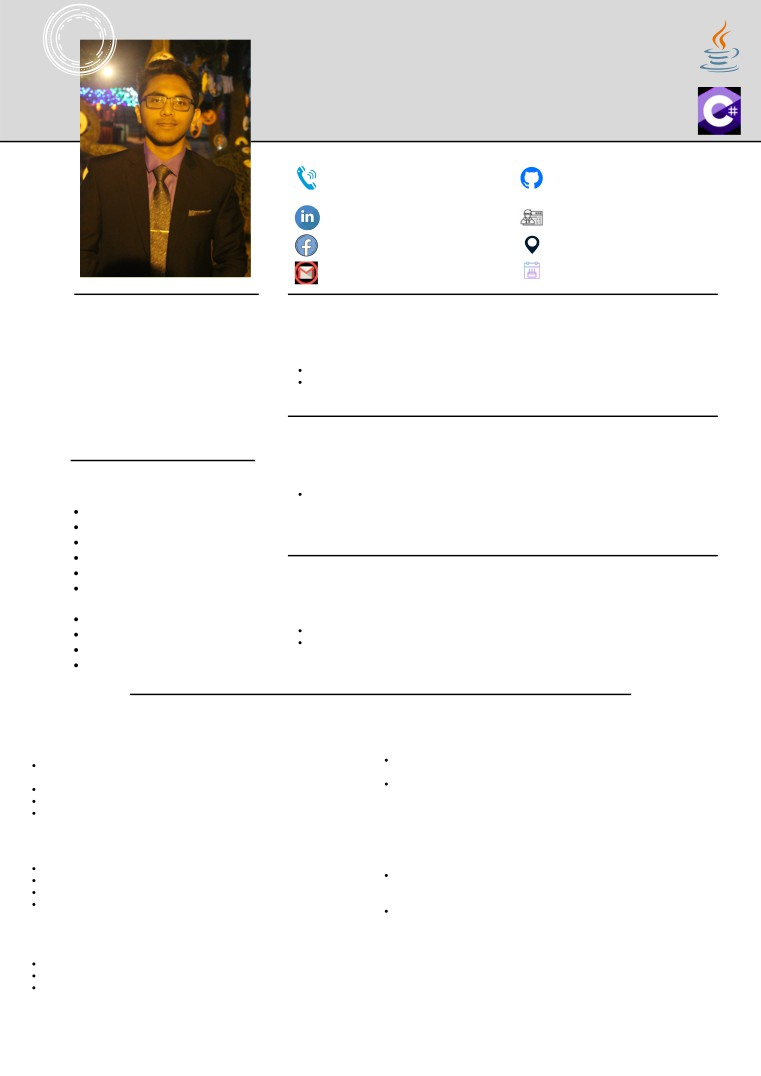
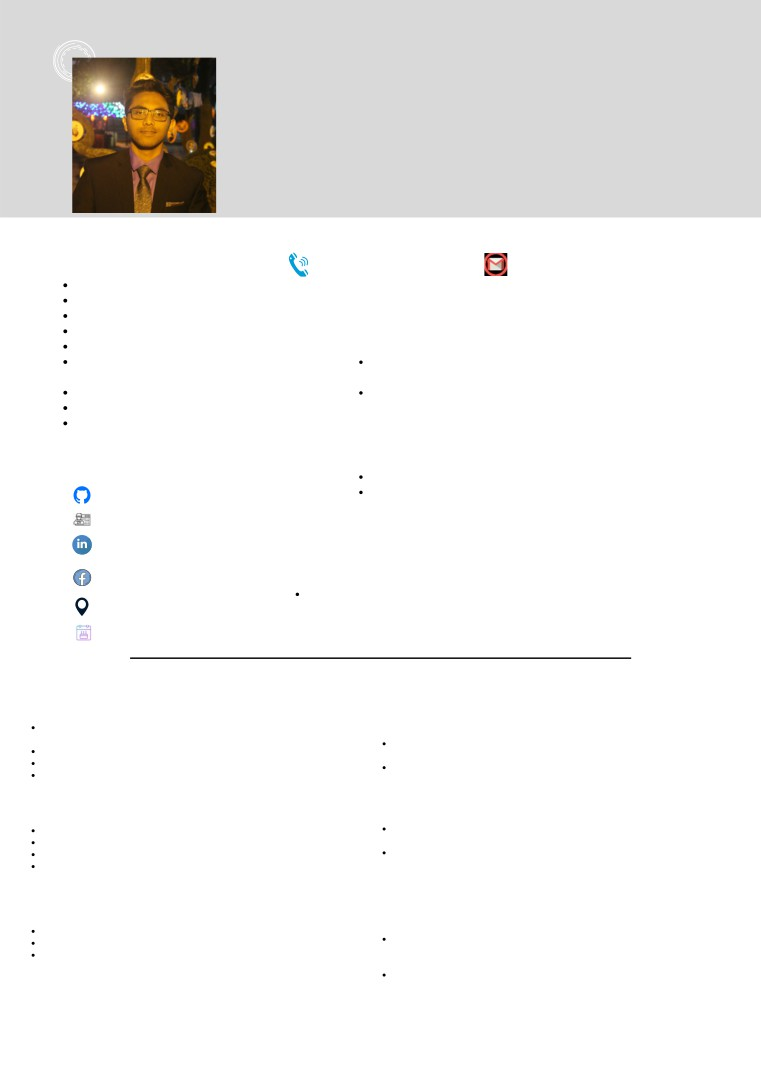
work experience adding

Changed region(s): [[0.0, 0.0, 1.0, 0.276], [0.0907, 0.4294, 0.1209, 0.6134]]

diff --git a/resume/index.html b/resume/index.html
@@ -6,151 +6,156 @@ span.cls_004{font-family:Arial,serif;font-size:11.1px;color:rgb(0,0,0);font-weig
 div.cls_004{font-family:Arial,serif;font-size:11.1px;color:rgb(0,0,0);font-weight:normal;font-style:normal;text-decoration: none}
 span.cls_005{font-family:Arial,serif;font-size:8.1px;color:rgb(0,0,0);font-weight:normal;font-style:normal;text-decoration: none}
 div.cls_005{font-family:Arial,serif;font-size:8.1px;color:rgb(0,0,0);font-weight:normal;font-style:normal;text-decoration: none}
-span.cls_003{font-family:Arial,serif;font-size:28.3px;color:rgb(31,32,42);font-weight:bold;font-style:normal;text-decoration: none}
-div.cls_003{font-family:Arial,serif;font-size:28.3px;color:rgb(31,32,42);font-weight:bold;font-style:normal;text-decoration: none}
-span.cls_002{font-family:Arial,serif;font-size:10.1px;color:rgb(93,23,235);font-weight:bold;font-style:normal;text-decoration: none}
-div.cls_002{font-family:Arial,serif;font-size:10.1px;color:rgb(93,23,235);font-weight:bold;font-style:normal;text-decoration: none}
+span.cls_003{font-family:Arial,serif;font-size:28.3px;color:rgb(0,0,0);font-weight:bold;font-style:normal;text-decoration: none}
+div.cls_003{font-family:Arial,serif;font-size:28.3px;color:rgb(0,0,0);font-weight:bold;font-style:normal;text-decoration: none}
+span.cls_002{font-family:Arial,serif;font-size:10.1px;color:rgb(0,0,0);font-weight:bold;font-style:normal;text-decoration: none}
+div.cls_002{font-family:Arial,serif;font-size:10.1px;color:rgb(0,0,0);font-weight:bold;font-style:normal;text-decoration: none}
+span.cls_006{font-family:Arial,serif;font-size:9.3px;color:rgb(0,0,0);font-weight:normal;font-style:normal;text-decoration: none}
+div.cls_006{font-family:Arial,serif;font-size:9.3px;color:rgb(0,0,0);font-weight:normal;font-style:normal;text-decoration: none}
+span.cls_007{font-family:Arial,serif;font-size:9.3px;color:rgb(0,157,217);font-weight:normal;font-style:normal;text-decoration: none}
+div.cls_007{font-family:Arial,serif;font-size:9.3px;color:rgb(0,157,217);font-weight:normal;font-style:normal;text-decoration: none}
 span.cls_024{font-family:Arial,serif;font-size:7.1px;color:rgb(0,0,0);font-weight:normal;font-style:normal;text-decoration: underline}
 div.cls_024{font-family:Arial,serif;font-size:7.1px;color:rgb(0,0,0);font-weight:normal;font-style:normal;text-decoration: none}
+span.cls_008{font-family:Arial,serif;font-size:9.1px;color:rgb(0,0,0);font-weight:normal;font-style:normal;text-decoration: none}
+div.cls_008{font-family:Arial,serif;font-size:9.1px;color:rgb(0,0,0);font-weight:normal;font-style:normal;text-decoration: none}
+span.cls_009{font-family:Arial,serif;font-size:9.1px;color:rgb(0,157,217);font-weight:normal;font-style:normal;text-decoration: none}
+div.cls_009{font-family:Arial,serif;font-size:9.1px;color:rgb(0,157,217);font-weight:normal;font-style:normal;text-decoration: none}
+span.cls_018{font-family:Arial,serif;font-size:8.1px;color:rgb(0,0,0);font-weight:bold;font-style:normal;text-decoration: none}
+div.cls_018{font-family:Arial,serif;font-size:8.1px;color:rgb(0,0,0);font-weight:bold;font-style:normal;text-decoration: none}
+span.cls_019{font-family:Arial,serif;font-size:8.1px;color:rgb(0,0,0);font-weight:normal;font-style:normal;text-decoration: none}
+div.cls_019{font-family:Arial,serif;font-size:8.1px;color:rgb(0,0,0);font-weight:normal;font-style:normal;text-decoration: none}
+span.cls_014{font-family:Arial,serif;font-size:8.1px;color:rgb(0,157,217);font-weight:normal;font-style:normal;text-decoration: none}
+div.cls_014{font-family:Arial,serif;font-size:8.1px;color:rgb(0,157,217);font-weight:normal;font-style:normal;text-decoration: none}
+span.cls_027{font-family:Arial,serif;font-size:7.1px;color:rgb(0,0,0);font-weight:normal;font-style:normal;text-decoration: underline}
+div.cls_027{font-family:Arial,serif;font-size:7.1px;color:rgb(0,0,0);font-weight:normal;font-style:normal;text-decoration: none}
 span.cls_026{font-family:Arial,serif;font-size:6.1px;color:rgb(0,0,0);font-weight:normal;font-style:normal;text-decoration: underline}
 div.cls_026{font-family:Arial,serif;font-size:6.1px;color:rgb(0,0,0);font-weight:normal;font-style:normal;text-decoration: none}
-span.cls_007{font-family:Arial,serif;font-size:6.1px;color:rgb(0,0,0);font-weight:normal;font-style:normal;text-decoration: none}
-div.cls_007{font-family:Arial,serif;font-size:6.1px;color:rgb(0,0,0);font-weight:normal;font-style:normal;text-decoration: none}
-span.cls_009{font-family:Arial,serif;font-size:9.1px;color:rgb(0,0,0);font-weight:normal;font-style:normal;text-decoration: none}
-div.cls_009{font-family:Arial,serif;font-size:9.1px;color:rgb(0,0,0);font-weight:normal;font-style:normal;text-decoration: none}
-span.cls_010{font-family:Arial,serif;font-size:10.1px;color:rgb(0,0,0);font-weight:bold;font-style:normal;text-decoration: none}
-div.cls_010{font-family:Arial,serif;font-size:10.1px;color:rgb(0,0,0);font-weight:bold;font-style:normal;text-decoration: none}
-span.cls_011{font-family:Arial,serif;font-size:9.1px;color:rgb(0,0,0);font-weight:bold;font-style:normal;text-decoration: none}
-div.cls_011{font-family:Arial,serif;font-size:9.1px;color:rgb(0,0,0);font-weight:bold;font-style:normal;text-decoration: none}
-span.cls_021{font-family:Arial,serif;font-size:6.1px;color:rgb(137,18,255);font-weight:bold;font-style:normal;text-decoration: none}
-div.cls_021{font-family:Arial,serif;font-size:6.1px;color:rgb(137,18,255);font-weight:bold;font-style:normal;text-decoration: none}
-span.cls_008{font-family:Arial,serif;font-size:7.1px;color:rgb(0,0,0);font-weight:normal;font-style:normal;text-decoration: none}
-div.cls_008{font-family:Arial,serif;font-size:7.1px;color:rgb(0,0,0);font-weight:normal;font-style:normal;text-decoration: none}
-span.cls_012{font-family:Arial,serif;font-size:9.1px;color:rgb(55,181,255);font-weight:normal;font-style:normal;text-decoration: none}
-div.cls_012{font-family:Arial,serif;font-size:9.1px;color:rgb(55,181,255);font-weight:normal;font-style:normal;text-decoration: none}
-span.cls_013{font-family:Arial,serif;font-size:8.1px;color:rgb(33,80,177);font-weight:bold;font-style:normal;text-decoration: none}
-div.cls_013{font-family:Arial,serif;font-size:8.1px;color:rgb(33,80,177);font-weight:bold;font-style:normal;text-decoration: none}
-span.cls_014{font-family:Arial,serif;font-size:9.1px;color:rgb(0,0,0);font-weight:normal;font-style:normal;text-decoration: none}
-div.cls_014{font-family:Arial,serif;font-size:9.1px;color:rgb(0,0,0);font-weight:normal;font-style:normal;text-decoration: none}
-span.cls_016{font-family:Arial,serif;font-size:7.1px;color:rgb(137,18,255);font-weight:normal;font-style:normal;text-decoration: none}
-div.cls_016{font-family:Arial,serif;font-size:7.1px;color:rgb(137,18,255);font-weight:normal;font-style:normal;text-decoration: none}
-span.cls_015{font-family:Arial,serif;font-size:9.1px;color:rgb(55,181,255);font-weight:normal;font-style:normal;text-decoration: none}
-div.cls_015{font-family:Arial,serif;font-size:9.1px;color:rgb(55,181,255);font-weight:normal;font-style:normal;text-decoration: none}
-span.cls_017{font-family:Arial,serif;font-size:7.1px;color:rgb(55,181,255);font-weight:normal;font-style:normal;text-decoration: none}
-div.cls_017{font-family:Arial,serif;font-size:7.1px;color:rgb(55,181,255);font-weight:normal;font-style:normal;text-decoration: none}
-span.cls_018{font-family:Arial,serif;font-size:11.1px;color:rgb(93,23,235);font-weight:bold;font-style:normal;text-decoration: none}
-div.cls_018{font-family:Arial,serif;font-size:11.1px;color:rgb(93,23,235);font-weight:bold;font-style:normal;text-decoration: none}
-span.cls_019{font-family:Arial,serif;font-size:7.1px;color:rgb(0,0,0);font-weight:normal;font-style:normal;text-decoration: none}
-div.cls_019{font-family:Arial,serif;font-size:7.1px;color:rgb(0,0,0);font-weight:normal;font-style:normal;text-decoration: none}
-span.cls_020{font-family:Arial,serif;font-size:7.1px;color:rgb(55,181,255);font-weight:normal;font-style:normal;text-decoration: none}
-div.cls_020{font-family:Arial,serif;font-size:7.1px;color:rgb(55,181,255);font-weight:normal;font-style:normal;text-decoration: none}
+span.cls_012{font-family:Arial,serif;font-size:8.1px;color:rgb(0,0,0);font-weight:bold;font-style:normal;text-decoration: none}
+div.cls_012{font-family:Arial,serif;font-size:8.1px;color:rgb(0,0,0);font-weight:bold;font-style:normal;text-decoration: none}
+span.cls_013{font-family:Arial,serif;font-size:6.1px;color:rgb(0,0,0);font-weight:normal;font-style:normal;text-decoration: none}
+div.cls_013{font-family:Arial,serif;font-size:6.1px;color:rgb(0,0,0);font-weight:normal;font-style:normal;text-decoration: none}
+span.cls_015{font-family:Arial,serif;font-size:11.1px;color:rgb(0,0,0);font-weight:bold;font-style:normal;text-decoration: none}
+div.cls_015{font-family:Arial,serif;font-size:11.1px;color:rgb(0,0,0);font-weight:bold;font-style:normal;text-decoration: none}
+span.cls_016{font-family:Arial,serif;font-size:7.1px;color:rgb(0,0,0);font-weight:normal;font-style:normal;text-decoration: none}
+div.cls_016{font-family:Arial,serif;font-size:7.1px;color:rgb(0,0,0);font-weight:normal;font-style:normal;text-decoration: none}
+span.cls_017{font-family:Arial,serif;font-size:7.1px;color:rgb(0,157,217);font-weight:normal;font-style:normal;text-decoration: none}
+div.cls_017{font-family:Arial,serif;font-size:7.1px;color:rgb(0,157,217);font-weight:normal;font-style:normal;text-decoration: none}
+span.cls_011{font-family:Arial,serif;font-size:7.1px;color:rgb(0,0,0);font-weight:normal;font-style:normal;text-decoration: none}
+div.cls_011{font-family:Arial,serif;font-size:7.1px;color:rgb(0,0,0);font-weight:normal;font-style:normal;text-decoration: none}
 span.cls_025{font-family:Arial,serif;font-size:7.1px;color:rgb(0,0,0);font-weight:normal;font-style:normal;text-decoration: underline}
 div.cls_025{font-family:Arial,serif;font-size:7.1px;color:rgb(0,0,0);font-weight:normal;font-style:normal;text-decoration: none}
-span.cls_022{font-family:Arial,serif;font-size:7.1px;color:rgb(203,107,230);font-weight:bold;font-style:normal;text-decoration: none}
-div.cls_022{font-family:Arial,serif;font-size:7.1px;color:rgb(203,107,230);font-weight:bold;font-style:normal;text-decoration: none}
-span.cls_023{font-family:Arial,serif;font-size:5.1px;color:rgb(203,107,230);font-weight:normal;font-style:normal;text-decoration: none}
-div.cls_023{font-family:Arial,serif;font-size:5.1px;color:rgb(203,107,230);font-weight:normal;font-style:normal;text-decoration: none}
-span.cls_027{font-family:Arial,serif;font-size:5.1px;color:rgb(203,107,230);font-weight:normal;font-style:normal;text-decoration: underline}
-div.cls_027{font-family:Arial,serif;font-size:5.1px;color:rgb(203,107,230);font-weight:normal;font-style:normal;text-decoration: none}
+span.cls_020{font-family:Arial,serif;font-size:7.1px;color:rgb(0,157,217);font-weight:normal;font-style:normal;text-decoration: none}
+div.cls_020{font-family:Arial,serif;font-size:7.1px;color:rgb(0,157,217);font-weight:normal;font-style:normal;text-decoration: none}
+span.cls_022{font-family:Arial,serif;font-size:7.1px;color:rgb(0,0,0);font-weight:bold;font-style:normal;text-decoration: none}
+div.cls_022{font-family:Arial,serif;font-size:7.1px;color:rgb(0,0,0);font-weight:bold;font-style:normal;text-decoration: none}
+span.cls_023{font-family:Arial,serif;font-size:5.1px;color:rgb(0,0,0);font-weight:normal;font-style:normal;text-decoration: none}
+div.cls_023{font-family:Arial,serif;font-size:5.1px;color:rgb(0,0,0);font-weight:normal;font-style:normal;text-decoration: none}
+span.cls_028{font-family:Arial,serif;font-size:5.1px;color:rgb(0,0,0);font-weight:normal;font-style:normal;text-decoration: underline}
+div.cls_028{font-family:Arial,serif;font-size:5.1px;color:rgb(0,0,0);font-weight:normal;font-style:normal;text-decoration: none}
 -->
 </style>
-<script type="text/javascript" src="d35c9590-f201-11eb-a980-0cc47a792c0a_id_d35c9590-f201-11eb-a980-0cc47a792c0a_files/wz_jsgraphics.js"></script>
+<script type="text/javascript" src="48cb4592-fcb1-11eb-a980-0cc47a792c0a_id_48cb4592-fcb1-11eb-a980-0cc47a792c0a_files/wz_jsgraphics.js"></script>
 </head>
 <body>
 <div style="position:absolute;left:50%;margin-left:-297px;top:0px;width:595px;height:842px;border-style:outset;overflow:hidden">
 <div style="position:absolute;left:0px;top:0px">
 <img src="background/background1.jpg" width=595 height=842></div>
-<div style="position:absolute;left:230.72px;top:37.43px" class="cls_004"><span class="cls_004">FRESH GRADUATE</span></div>
-<div style="position:absolute;left:230.72px;top:49.10px" class="cls_005"><span class="cls_005">BRAC UNIVERSITY</span></div>
-<div style="position:absolute;left:227.28px;top:65.49px" class="cls_003"><span class="cls_003">MD FAHIM SIAM</span></div>
-<div style="position:absolute;left:223.25px;top:112.70px" class="cls_002"><span class="cls_002">GET IN CONTACT</span></div>
-<div style="position:absolute;left:254.46px;top:127.58px" class="cls_005"><span class="cls_005">+8801872627888</span></div>
-<div style="position:absolute;left:428.31px;top:134.79px" class="cls_024"><span class="cls_024"> </span><A HREF="https://github.com/fahimsiam/">https://github.com/fahimSiam</A> </div>
-<div style="position:absolute;left:254.46px;top:138.25px" class="cls_005"><span class="cls_005">+8801303735100</span></div>
-<div style="position:absolute;left:254.51px;top:165.15px" class="cls_026"><span class="cls_026"> </span><A HREF="https://www.linkedin.com/in/fahim-siam-02/">https://www.linkedin.com/in/fahim-siam-02/</A> </div>
-<div style="position:absolute;left:428.31px;top:165.64px" class="cls_026"><span class="cls_026"> </span><A HREF="https://fahimsiam.github.io/">https://fahimsiam.github.io/</A> </div>
-<div style="position:absolute;left:254.51px;top:186.02px" class="cls_026"><span class="cls_026"> </span><A HREF="https://cutt.ly/gmbh9on/">https://cutt.ly/GmbH9ON</A> </div>
-<div style="position:absolute;left:428.31px;top:187.10px" class="cls_007"><span class="cls_007">Najira Bajar, Dhaka: 1000.</span></div>
-<div style="position:absolute;left:254.51px;top:207.46px" class="cls_024"><span class="cls_024"> </span><A HREF="mailto:fahimsiam02@gmail.com">siamfahim02@gmail.com</A> </div>
-<div style="position:absolute;left:428.31px;top:207.48px" class="cls_007"><span class="cls_007">Age: 23 years</span></div>
-<div style="position:absolute;left:223.25px;top:238.06px" class="cls_002"><span class="cls_002">EDUCATION HISTORY</span></div>
-<div style="position:absolute;left:58.16px;top:238.06px" class="cls_002"><span class="cls_002">PERSONAL PROFILE</span></div>
-<div style="position:absolute;left:57.28px;top:251.07px" class="cls_009"><span class="cls_009">I love to keep up with the latest</span></div>
-<div style="position:absolute;left:230.72px;top:257.26px" class="cls_010"><span class="cls_010">BRAC UNIVERSITY</span></div>
-<div style="position:absolute;left:57.28px;top:263.08px" class="cls_009"><span class="cls_009">technologies. Exploring different</span></div>
-<div style="position:absolute;left:230.72px;top:271.11px" class="cls_011"><span class="cls_011">Bachelor of Computer Science</span></div>
-<div style="position:absolute;left:361.98px;top:273.26px" class="cls_021"><span class="cls_021">(Jan, 2017 -</span></div>
-<div style="position:absolute;left:57.28px;top:275.09px" class="cls_009"><span class="cls_009">sectors of CS is my passion.</span></div>
-<div style="position:absolute;left:362.68px;top:281.27px" class="cls_021"><span class="cls_021">June, 2021)</span></div>
-<div style="position:absolute;left:242.63px;top:284.20px" class="cls_008"><span class="cls_008">CGPA: 3.41</span></div>
-<div style="position:absolute;left:57.28px;top:287.10px" class="cls_009"><span class="cls_009">Currently learning Android and</span></div>
-<div style="position:absolute;left:242.63px;top:293.54px" class="cls_008"><span class="cls_008">Significant Courses: Competitive Programming, Data Structures, Algorithms, OOP.</span></div>
-<div style="position:absolute;left:57.28px;top:299.11px" class="cls_009"><span class="cls_009">flutter app development and</span></div>
-<div style="position:absolute;left:57.28px;top:311.12px" class="cls_009"><span class="cls_009">ASP.NET Web Development.</span></div>
-<div style="position:absolute;left:57.28px;top:323.13px" class="cls_012"><span class="cls_012">vjudge handle: fahimSiam</span></div>
-<div style="position:absolute;left:57.28px;top:335.14px" class="cls_012"><span class="cls_012">HackerRank: fahimSiam</span></div>
-<div style="position:absolute;left:223.25px;top:337.67px" class="cls_002"><span class="cls_002">PUBLISHED PAPERS</span></div>
-<div style="position:absolute;left:230.72px;top:355.30px" class="cls_013"><span class="cls_013">DESIGN AND IMPLEMENTATION OF A SMART BIKE ACCIDENT</span></div>
-<div style="position:absolute;left:230.72px;top:365.98px" class="cls_013"><span class="cls_013">DETECTION SYSTEM(2020)</span></div>
-<div style="position:absolute;left:58.16px;top:371.62px" class="cls_002"><span class="cls_002">AREAS OF EXPERTISE</span></div>
-<div style="position:absolute;left:242.63px;top:381.22px" class="cls_008"><span class="cls_008">WE IMPLEMENTED AN IOT-BASED DEVICE TO REDUCE THE CASUALTY OF ROAD</span></div>
-<div style="position:absolute;left:242.63px;top:390.56px" class="cls_008"><span class="cls_008">ACCIDENTS.</span></div>
-<div style="position:absolute;left:68.98px;top:393.62px" class="cls_014"><span class="cls_014">Good grasp over  OOP</span></div>
-<div style="position:absolute;left:230.72px;top:402.40px" class="cls_008"><span class="cls_008">2020 IEEE REGION 10 SYMPOSIUM </span><span class="cls_016">(TENSYMP),</span><span class="cls_008"> DHAKA, BANGLADESH, 2020, PP. 386-</span></div>
-<div style="position:absolute;left:68.98px;top:405.63px" class="cls_014"><span class="cls_014">C# </span><span class="cls_015">ASP.NET</span><span class="cls_014"> Web Development</span></div>
-<div style="position:absolute;left:230.72px;top:411.75px" class="cls_008"><span class="cls_008">389, </span><span class="cls_017">DOI: 10.1109/TENSYMP50017.2020.9230656.</span></div>
-<div style="position:absolute;left:68.98px;top:417.64px" class="cls_014"><span class="cls_014">Android Development</span></div>
-<div style="position:absolute;left:68.98px;top:429.65px" class="cls_014"><span class="cls_014">Flutter App Development</span></div>
-<div style="position:absolute;left:68.98px;top:441.66px" class="cls_014"><span class="cls_014">Competitive Programming</span></div>
-<div style="position:absolute;left:223.25px;top:445.26px" class="cls_002"><span class="cls_002">THESIS</span></div>
-<div style="position:absolute;left:68.98px;top:453.67px" class="cls_014"><span class="cls_014">Working knowledge of </span><span class="cls_015">JAVA</span><span class="cls_014">,</span></div>
-<div style="position:absolute;left:232.36px;top:461.39px" class="cls_013"><span class="cls_013">CORRELATING LOCKDOWNS, MORTALITY RATES, AND AIR POLLUTION:</span></div>
-<div style="position:absolute;left:68.98px;top:465.68px" class="cls_015"><span class="cls_015">C++</span><span class="cls_014">, </span><span class="cls_015">C# </span><span class="cls_014">and </span><span class="cls_015">Python</span></div>
-<div style="position:absolute;left:232.36px;top:472.06px" class="cls_013"><span class="cls_013">A DEEP LEARNING IMBUED STUDY OF COVID-19</span></div>
-<div style="position:absolute;left:68.98px;top:477.69px" class="cls_014"><span class="cls_014">Hard Worker</span></div>
-<div style="position:absolute;left:242.63px;top:488.00px" class="cls_008"><span class="cls_008">DETERMINING THE EFFECTS OF COVID-19 ON THE AIR QUALITY OF DIFFERENT CITIES.</span></div>
-<div style="position:absolute;left:68.98px;top:489.70px" class="cls_014"><span class="cls_014">Fast Learner</span></div>
-<div style="position:absolute;left:242.63px;top:497.34px" class="cls_008"><span class="cls_008">FINDING A CORRELATION BETWEEN PM2.5 AND COVID-19 DEATHS CONSIDERING MANY</span></div>
-<div style="position:absolute;left:68.98px;top:501.71px" class="cls_014"><span class="cls_014">Detail oriented</span></div>
-<div style="position:absolute;left:242.63px;top:506.68px" class="cls_008"><span class="cls_008">CONFOUNDING FACTORS.</span></div>
-<div style="position:absolute;left:68.98px;top:513.72px" class="cls_014"><span class="cls_014">Excellent problem solver</span></div>
-<div style="position:absolute;left:230.72px;top:516.02px" class="cls_008"><span class="cls_008">LINK: </span><A HREF="https://cutt.ly/rmbgmho/">https://cutt.ly/rmbGmHO</A> </span></div>
-<div style="position:absolute;left:261.78px;top:549.81px" class="cls_018"><span class="cls_018">PROJECTS</span></div>
-<div style="position:absolute;left:22.43px;top:574.96px" class="cls_013"><span class="cls_013"> </span><A HREF="https://github.com/fahimSiam/ASP.Net-CRUD-Application-with-random-dataset-stored-in-database">ASP.NET CRUD APPLICATION WITH PRODUCT</A>S DATABASE     A PERSONALITY TESTING APP USING FLUTTER</div>
-<div style="position:absolute;left:310.12px;top:589.30px" class="cls_008"><span class="cls_008">A BASIC QUIZ APP USING </span><span class="cls_017">FLUTTER</span><span class="cls_008"> THAT ASKES QUESTIONS THAT</span></div>
-<div style="position:absolute;left:34.34px;top:593.52px" class="cls_019"><span class="cls_019">USING </span><span class="cls_020">ASP.NET FRAMEWORK</span><span class="cls_019"> MADE A WEB APPLICATION OF RANDOM</span></div>
-<div style="position:absolute;left:310.12px;top:598.64px" class="cls_008"><span class="cls_008">DETERMINE A PERSON'S INTERESTS.</span></div>
-<div style="position:absolute;left:34.34px;top:602.86px" class="cls_019"><span class="cls_019">PRODUCTS WITH </span><span class="cls_020">SQL</span><span class="cls_019"> DATABASE.</span></div>
-<div style="position:absolute;left:310.12px;top:607.99px" class="cls_008"><span class="cls_008">USED OOP METHODS TO DIVIDE DIFFERENT WIDGETS INTO DIFFERENT</span></div>
-<div style="position:absolute;left:34.34px;top:612.20px" class="cls_019"><span class="cls_019">CRUD(CREATE, READ, UPDATE, DELETE) FEATURES IMPLEMENTED.</span></div>
-<div style="position:absolute;left:310.12px;top:617.33px" class="cls_008"><span class="cls_008">FILES.</span></div>
-<div style="position:absolute;left:34.34px;top:621.54px" class="cls_019"><span class="cls_019">CODED IN MODEL, VIEW, CONTROLLER FORMAT.</span></div>
-<div style="position:absolute;left:298.21px;top:626.67px" class="cls_008"><span class="cls_008">LINK: </span><A HREF="https://cutt.ly/BQgluMT/">https://cutt.ly/BQgluMT</A> </span></div>
-<div style="position:absolute;left:34.34px;top:630.88px" class="cls_019"><span class="cls_019">PRODUCT & PICTURES DISPLAYED IN CARDS FORMAT DYNAMICALLY.</span></div>
-<div style="position:absolute;left:22.43px;top:640.22px" class="cls_019"><span class="cls_019">LINK: </span><A HREF="https://cutt.ly/nm1t6jp/">https://cutt.ly/nm1T6JP</A> </span></div>
-<div style="position:absolute;left:298.21px;top:655.62px" class="cls_013"><span class="cls_013">VISUALIZATION AND PREDICTION OF SUICIDE RATE OF</span></div>
-<div style="position:absolute;left:22.43px;top:658.46px" class="cls_013"><span class="cls_013">SDLC ANALYSIS ON NETSUITE ERP.</span></div>
-<div style="position:absolute;left:298.21px;top:666.30px" class="cls_013"><span class="cls_013">COUNTRIES BASED ON POPULATION</span></div>
-<div style="position:absolute;left:34.34px;top:674.19px" class="cls_019"><span class="cls_019">AN </span><span class="cls_020">SDLC ANALYSIS</span><span class="cls_019"> ON A BIG ERP COMPANY LIKE NETSUITE.</span></div>
-<div style="position:absolute;left:310.12px;top:679.52px" class="cls_008"><span class="cls_008">A </span><span class="cls_017">PYTHON</span><span class="cls_008"> PROJECT, DONE IN GOOGLE COLAB VISUALIZING</span></div>
-<div style="position:absolute;left:34.34px;top:683.53px" class="cls_019"><span class="cls_019">TEST CASES ON THEIR DIFFERENT FEATURES.</span></div>
-<div style="position:absolute;left:310.12px;top:688.87px" class="cls_008"><span class="cls_008">RELATIONS BETWEEN POPULATION OTHER FACTORS LIKE SUICIDE</span></div>
-<div style="position:absolute;left:34.34px;top:692.87px" class="cls_019"><span class="cls_019">BUSINESS STRATEGIES</span></div>
-<div style="position:absolute;left:310.12px;top:698.21px" class="cls_008"><span class="cls_008">RATES AND GDP.</span></div>
-<div style="position:absolute;left:34.34px;top:702.21px" class="cls_019"><span class="cls_019">DETERMINING THEIR POSITION ON THE MARKET.</span></div>
-<div style="position:absolute;left:310.12px;top:707.55px" class="cls_008"><span class="cls_008">K-MEANS AND LINEAR REGRESSION TO PREDICT FUTURE SUICIDE</span></div>
-<div style="position:absolute;left:22.43px;top:711.55px" class="cls_019"><span class="cls_019">LINK: </span><A HREF="https://cutt.ly/pmbguwu/">https://cutt.ly/PmbGuWU</A> </span></div>
-<div style="position:absolute;left:310.12px;top:716.89px" class="cls_008"><span class="cls_008">RATES.</span></div>
-<div style="position:absolute;left:298.21px;top:726.23px" class="cls_008"><span class="cls_008">LINK: </span><A HREF="https://cutt.ly/gmbghie/">https://cutt.ly/gmbGhiE</A> </span></div>
-<div style="position:absolute;left:22.43px;top:734.47px" class="cls_013"><span class="cls_013">PHP PROJECT: INVENTORY SALES MANAGEMENT WEBSITE</span></div>
-<div style="position:absolute;left:34.32px;top:748.82px" class="cls_017"><span class="cls_017">PHP </span><span class="cls_008">BASED PROJECT TO MANAGE INVENTORY AND SALES.</span></div>
-<div style="position:absolute;left:34.32px;top:758.16px" class="cls_008"><span class="cls_008">REVIEW SALES RECONDS.</span></div>
-<div style="position:absolute;left:34.32px;top:767.50px" class="cls_008"><span class="cls_008">LOGIN AND SIGNUP SUPPORT.</span></div>
-<div style="position:absolute;left:22.41px;top:776.84px" class="cls_008"><span class="cls_008">LINK: </span><A HREF="https://cutt.ly/rmbguqe/">https://cutt.ly/RmbGUQE</A> </span></div>
-<div style="position:absolute;left:273.44px;top:784.36px" class="cls_022"><span class="cls_022">REFERENCE</span></div>
-<div style="position:absolute;left:247.49px;top:798.63px" class="cls_023"><span class="cls_023">DR. MD. MOTAHARUL ISLAM(FACULTY)</span></div>
-<div style="position:absolute;left:250.20px;top:805.31px" class="cls_023"><span class="cls_023">EMAIL: </span><A HREF="mailto:motaharul@cse.uiu.ac.bd">MOTAHARUL@CSE.UIU.AC.BD</A> </span></div>
-<div style="position:absolute;left:260.45px;top:811.98px" class="cls_023"><span class="cls_023">CONTACT: +8801712644837</span></div>
+<div style="position:absolute;left:224.45px;top:43.36px" class="cls_004"><span class="cls_004">FRESH GRADUATE</span></div>
+<div style="position:absolute;left:224.45px;top:55.04px" class="cls_005"><span class="cls_005">BRAC UNIVERSITY</span></div>
+<div style="position:absolute;left:222.54px;top:67.98px" class="cls_003"><span class="cls_003">MD FAHIM SIAM</span></div>
+<div style="position:absolute;left:222.54px;top:103.41px" class="cls_002"><span class="cls_002">ABOUT ME</span></div>
+<div style="position:absolute;left:227.29px;top:116.89px" class="cls_006"><span class="cls_006">I love to keep up with the latest technologies. Exploring different sectors of</span></div>
+<div style="position:absolute;left:227.29px;top:129.65px" class="cls_006"><span class="cls_006">CS is my passion. Currently learning App development and ASP.NET Web</span></div>
+<div style="position:absolute;left:227.29px;top:142.41px" class="cls_006"><span class="cls_006">Development.</span></div>
+<div style="position:absolute;left:227.29px;top:155.17px" class="cls_006"><span class="cls_006">HackerRank: </span><span class="cls_007">fahimSiam</span></div>
+<div style="position:absolute;left:216.88px;top:176.18px" class="cls_002"><span class="cls_002">GET IN CONTACT</span></div>
+<div style="position:absolute;left:49.72px;top:194.22px" class="cls_002"><span class="cls_002">AREAS OF EXPERTISE</span></div>
+<div style="position:absolute;left:248.09px;top:195.69px" class="cls_005"><span class="cls_005">+8801872627888</span></div>
+<div style="position:absolute;left:402.85px;top:200.86px" class="cls_024"><span class="cls_024"> </span><A HREF="mailto:fahimsiam02@gmail.com">siamfahim02@gmail.com</A> </div>
+<div style="position:absolute;left:248.09px;top:206.36px" class="cls_005"><span class="cls_005">+8801303735100</span></div>
+<div style="position:absolute;left:60.55px;top:216.23px" class="cls_008"><span class="cls_008">Good grasp over  OOP</span></div>
+<div style="position:absolute;left:60.55px;top:228.24px" class="cls_008"><span class="cls_008">C# </span><span class="cls_009">ASP.NET</span><span class="cls_008"> Web Development</span></div>
+<div style="position:absolute;left:216.88px;top:227.69px" class="cls_002"><span class="cls_002">WORK EXPERIENCE</span></div>
+<div style="position:absolute;left:60.55px;top:240.25px" class="cls_008"><span class="cls_008">Android Development</span></div>
+<div style="position:absolute;left:228.03px;top:250.54px" class="cls_018"><span class="cls_018">July,2021 -</span></div>
+<div style="position:absolute;left:280.44px;top:249.58px" class="cls_018"><span class="cls_018">Quality Up Services (QUPS)</span></div>
+<div style="position:absolute;left:60.55px;top:252.26px" class="cls_009"><span class="cls_009">Flutter </span><span class="cls_008">App Development</span></div>
+<div style="position:absolute;left:230.19px;top:261.14px" class="cls_018"><span class="cls_018">Present</span></div>
+<div style="position:absolute;left:280.44px;top:261.03px" class="cls_019"><span class="cls_019">test Automation Intern</span></div>
+<div style="position:absolute;left:60.55px;top:264.27px" class="cls_008"><span class="cls_008">Competitive Programming</span></div>
+<div style="position:absolute;left:60.55px;top:276.28px" class="cls_008"><span class="cls_008">Working knowledge of </span><span class="cls_009">JAVA</span><span class="cls_008">,</span></div>
+<div style="position:absolute;left:290.84px;top:277.13px" class="cls_014"><span class="cls_014">Selenium </span><span class="cls_005">Python web automation</span></div>
+<div style="position:absolute;left:60.55px;top:288.29px" class="cls_009"><span class="cls_009">C++</span><span class="cls_008">, </span><span class="cls_009">C#</span><span class="cls_008"> and Python</span></div>
+<div style="position:absolute;left:290.84px;top:289.14px" class="cls_005"><span class="cls_005">technics</span></div>
+<div style="position:absolute;left:60.55px;top:300.30px" class="cls_008"><span class="cls_008">Fast Learner</span></div>
+<div style="position:absolute;left:290.84px;top:301.15px" class="cls_005"><span class="cls_005">Web Application testing</span></div>
+<div style="position:absolute;left:60.55px;top:312.31px" class="cls_008"><span class="cls_008">Excellent problem solver</span></div>
+<div style="position:absolute;left:216.88px;top:318.78px" class="cls_002"><span class="cls_002">EDUCATION HISTORY</span></div>
+<div style="position:absolute;left:60.55px;top:324.32px" class="cls_009"><span class="cls_009">Selenium </span><span class="cls_008">Web Automantion</span></div>
+<div style="position:absolute;left:228.03px;top:340.43px" class="cls_018"><span class="cls_018">Jan,2017-</span></div>
+<div style="position:absolute;left:280.44px;top:340.16px" class="cls_018"><span class="cls_018">BRAC University</span></div>
+<div style="position:absolute;left:228.03px;top:350.94px" class="cls_018"><span class="cls_018">June,2021</span></div>
+<div style="position:absolute;left:280.44px;top:350.92px" class="cls_019"><span class="cls_019">Bachelor of Computer Science</span></div>
+<div style="position:absolute;left:49.72px;top:354.92px" class="cls_002"><span class="cls_002">SOCIALS</span></div>
+<div style="position:absolute;left:290.84px;top:367.02px" class="cls_005"><span class="cls_005">CGPA: 3.41</span></div>
+<div style="position:absolute;left:76.21px;top:382.08px" class="cls_024"><span class="cls_024"> </span><A HREF="https://github.com/fahimsiam/">https://github.com/fahimSiam</A> </div>
+<div style="position:absolute;left:290.84px;top:379.03px" class="cls_005"><span class="cls_005">Significant Courses: Competitive Programming,</span></div>
+<div style="position:absolute;left:290.84px;top:391.04px" class="cls_005"><span class="cls_005">Data Structures, Algorithms, OOP.</span></div>
+<div style="position:absolute;left:76.21px;top:401.83px" class="cls_027"><span class="cls_027"> </span><A HREF="https://fahimsiam.github.io/">https://fahimsiam.github.io/</A> </div>
+<div style="position:absolute;left:216.88px;top:415.31px" class="cls_002"><span class="cls_002">PUBLISHED PAPERS</span></div>
+<div style="position:absolute;left:76.21px;top:422.00px" class="cls_026"><span class="cls_026"> </span><A HREF="https://cutt.ly/BQUdu1r">https://cutt.ly/BQUdu1r</A> </div>
+<div style="position:absolute;left:228.03px;top:432.94px" class="cls_012"><span class="cls_012">DESIGN AND IMPLEMENTATION OF A SMART BIKE ACCIDENT</span></div>
+<div style="position:absolute;left:76.21px;top:447.87px" class="cls_026"><span class="cls_026"> </span><A HREF="https://cutt.ly/gmbh9on/">https://cutt.ly/GmbH9ON</A> </div>
+<div style="position:absolute;left:228.03px;top:443.61px" class="cls_012"><span class="cls_012">DETECTION SYSTEM(2020)</span></div>
+<div style="position:absolute;left:241.63px;top:458.84px" class="cls_005"><span class="cls_005">WE IMPLEMENTED AN IOT-BASED DEVICE TO REDUCE THE CASUALTY OF</span></div>
+<div style="position:absolute;left:76.21px;top:467.47px" class="cls_013"><span class="cls_013">Najira Bajar, Dhaka.</span></div>
+<div style="position:absolute;left:241.63px;top:469.51px" class="cls_005"><span class="cls_005">ROAD ACCIDENTS.</span></div>
+<div style="position:absolute;left:228.03px;top:480.02px" class="cls_005"><span class="cls_005">2020 </span><span class="cls_014">IEEE</span><span class="cls_005"> REGION 10 SYMPOSIUM (TENSYMP), DHAKA, BANGLADESH, 2020,</span></div>
+<div style="position:absolute;left:76.21px;top:489.41px" class="cls_013"><span class="cls_013">Age: 23 years</span></div>
+<div style="position:absolute;left:228.03px;top:490.70px" class="cls_005"><span class="cls_005">PP. 386-389, </span><span class="cls_014">DOI: 10.1109/TENSYMP50017.2020.9230656.</span></div>
+<div style="position:absolute;left:261.78px;top:520.16px" class="cls_015"><span class="cls_015">PROJECTS</span></div>
+<div style="position:absolute;left:22.21px;top:545.31px" class="cls_012"><span class="cls_012"> </span><A HREF="https://github.com/fahimSiam/ASP.Net-CRUD-Application-with-random-dataset-stored-in-database">ASP.NET CRUD APPLICATION WITH PRODUCT</A>S DATABASE     THESIS: CORRELATING LOCKDOWNS, MORTALITY RATES,</div>
+<div style="position:absolute;left:298.21px;top:555.99px" class="cls_012"><span class="cls_012">AND AIR POLLUTION: A DEEP LEARNING IMBUED STUDY OF</span></div>
+<div style="position:absolute;left:33.74px;top:563.87px" class="cls_016"><span class="cls_016">WEB APPLICATION OF RANDOM PRODUCTS USING </span><span class="cls_017">ASP.NET</span></div>
+<div style="position:absolute;left:298.21px;top:566.66px" class="cls_012"><span class="cls_012">COVID-19</span></div>
+<div style="position:absolute;left:33.74px;top:573.21px" class="cls_016"><span class="cls_016">FRAMEWORK, </span><span class="cls_017">JQUERY</span><span class="cls_016"> WITH SQL DATABASE.</span></div>
+<div style="position:absolute;left:308.40px;top:576.46px" class="cls_011"><span class="cls_011">DETERMINING THE EFFECTS OF COVID-19 ON THE AIR QUALITY OF</span></div>
+<div style="position:absolute;left:33.74px;top:582.55px" class="cls_016"><span class="cls_016">CRUD(CREATE, READ, UPDATE, DELETE) FEATURES.</span></div>
+<div style="position:absolute;left:308.40px;top:585.80px" class="cls_011"><span class="cls_011">DIFFERENT CITIES.</span></div>
+<div style="position:absolute;left:33.74px;top:591.90px" class="cls_016"><span class="cls_016">CODED IN MODEL, VIEW, CONTROLLER FORMAT.</span></div>
+<div style="position:absolute;left:308.40px;top:595.14px" class="cls_011"><span class="cls_011">FINDING A CORRELATION BETWEEN PM2.5 AND COVID-19 DEATHS</span></div>
+<div style="position:absolute;left:33.74px;top:601.24px" class="cls_016"><span class="cls_016">PRODUCT & PICTURES DISPLAYED IN CARDS FORMAT DYNAMICALLY.</span></div>
+<div style="position:absolute;left:308.40px;top:604.49px" class="cls_011"><span class="cls_011">CONSIDERING MANY CONFOUNDING FACTORS.</span></div>
+<div style="position:absolute;left:21.84px;top:610.58px" class="cls_016"><span class="cls_016">LINK: </span><A HREF="https://cutt.ly/nm1t6jp/">https://cutt.ly/nm1T6JP</A> </span></div>
+<div style="position:absolute;left:296.49px;top:613.83px" class="cls_011"><span class="cls_011">LINK: </span><A HREF="https://cutt.ly/rmbgmho/">https://cutt.ly/rmbGmHO</A> </span></div>
+<div style="position:absolute;left:22.43px;top:628.81px" class="cls_012"><span class="cls_012">SDLC ANALYSIS ON NETSUITE ERP.</span></div>
+<div style="position:absolute;left:298.21px;top:628.81px" class="cls_012"><span class="cls_012">A PERSONALITY TESTING APP USING FLUTTER</span></div>
+<div style="position:absolute;left:33.74px;top:644.54px" class="cls_016"><span class="cls_016">AN </span><span class="cls_017">SDLC</span><span class="cls_016"> ANALYSIS ON A BIG ERP COMPANY LIKE NETSUITE.</span></div>
+<div style="position:absolute;left:308.40px;top:643.16px" class="cls_011"><span class="cls_011">A BASIC QUIZ APP USING </span><span class="cls_020">FLUTTER</span><span class="cls_011"> THAT ASKES QUESTIONS THAT</span></div>
+<div style="position:absolute;left:33.74px;top:653.88px" class="cls_016"><span class="cls_016">TEST CASES ON THEIR DIFFERENT FEATURES.</span></div>
+<div style="position:absolute;left:308.40px;top:652.50px" class="cls_011"><span class="cls_011">DETERMINE A PERSON'S INTERESTS.</span></div>
+<div style="position:absolute;left:33.74px;top:663.22px" class="cls_016"><span class="cls_016">BUSINESS STRATEGIES</span></div>
+<div style="position:absolute;left:308.40px;top:661.84px" class="cls_011"><span class="cls_011">USED OOP METHODS TO DIVIDE DIFFERENT WIDGETS INTO DIFFERENT</span></div>
+<div style="position:absolute;left:33.74px;top:672.56px" class="cls_016"><span class="cls_016">DETERMINING THEIR POSITION ON THE MARKET.</span></div>
+<div style="position:absolute;left:308.40px;top:671.18px" class="cls_011"><span class="cls_011">FILES.</span></div>
+<div style="position:absolute;left:21.84px;top:681.90px" class="cls_016"><span class="cls_016">LINK: </span><A HREF="https://cutt.ly/pmbguwu/">https://cutt.ly/PmbGuWU</A> </span></div>
+<div style="position:absolute;left:296.49px;top:680.52px" class="cls_011"><span class="cls_011">LINK: </span><A HREF="https://cutt.ly/bqglumt/">https://cutt.ly/BQgluMT</A> </span></div>
+<div style="position:absolute;left:22.43px;top:705.57px" class="cls_012"><span class="cls_012">PHP PROJECT: INVENTORY SALES MANAGEMENT WEBSITE    VISUALIZATION AND PREDICTION OF SUICIDE RATE OF</span></div>
+<div style="position:absolute;left:298.21px;top:716.25px" class="cls_012"><span class="cls_012">COUNTRIES BASED ON POPULATION</span></div>
+<div style="position:absolute;left:33.74px;top:723.28px" class="cls_020"><span class="cls_020">PHP</span><span class="cls_011"> BASED PROJECT TO MANAGE INVENTORY AND SALES.</span></div>
+<div style="position:absolute;left:308.40px;top:729.47px" class="cls_011"><span class="cls_011">A </span><span class="cls_020">PYTHON</span><span class="cls_011"> PROJECT, DONE IN GOOGLE COLAB VISUALIZING</span></div>
+<div style="position:absolute;left:33.74px;top:732.62px" class="cls_011"><span class="cls_011">REVIEW SALES RECONDS.</span></div>
+<div style="position:absolute;left:308.40px;top:738.81px" class="cls_011"><span class="cls_011">RELATIONS BETWEEN POPULATION OTHER FACTORS LIKE SUICIDE</span></div>
+<div style="position:absolute;left:33.74px;top:741.96px" class="cls_011"><span class="cls_011">LOGIN AND SIGNUP SUPPORT.</span></div>
+<div style="position:absolute;left:308.40px;top:748.15px" class="cls_011"><span class="cls_011">RATES AND GDP.</span></div>
+<div style="position:absolute;left:21.84px;top:751.30px" class="cls_011"><span class="cls_011">LINK: </span><A HREF="https://cutt.ly/rmbguqe/">https://cutt.ly/RmbGUQE</A> </span></div>
+<div style="position:absolute;left:308.40px;top:757.49px" class="cls_011"><span class="cls_011">K-MEANS AND LINEAR REGRESSION TO PREDICT FUTURE SUICIDE</span></div>
+<div style="position:absolute;left:308.40px;top:766.83px" class="cls_011"><span class="cls_011">RATES.</span></div>
+<div style="position:absolute;left:296.49px;top:776.18px" class="cls_011"><span class="cls_011">LINK: </span><A HREF="https://cutt.ly/gmbghie/">https://cutt.ly/gmbGhiE</A> </span></div>
+<div style="position:absolute;left:273.44px;top:795.20px" class="cls_022"><span class="cls_022">REFERENCE</span></div>
+<div style="position:absolute;left:247.49px;top:803.92px" class="cls_023"><span class="cls_023">DR. MD. MOTAHARUL ISLAM(FACULTY)</span></div>
+<div style="position:absolute;left:250.20px;top:810.59px" class="cls_023"><span class="cls_023">EMAIL: </span><A HREF="mailto:motaharul@cse.uiu.ac.bd">MOTAHARUL@CSE.UIU.AC.BD</A> </span></div>
+<div style="position:absolute;left:260.45px;top:817.26px" class="cls_023"><span class="cls_023">CONTACT: +8801712644837</span></div>
 </div>
 
 </body>
